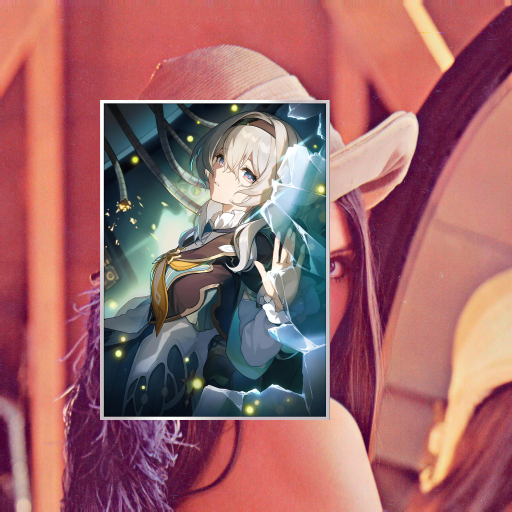
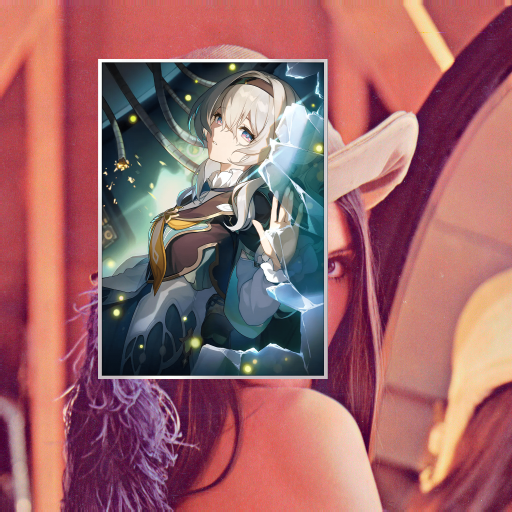
2025/01/10

Changed region(s): [[0.1875, 0.0938, 0.6562, 0.8438]]

diff --git a/Toollib.py b/Toollib.py
@@ -3,6 +3,7 @@ import matplotlib.pyplot as plt
 from xxhash import xxh32
 import B2D
 from skimage import io,transform
+import random
 
 def APPM_RT256():
     RT = []
@@ -266,12 +267,14 @@ def embeding(image,n):
     def noise(I,Noise):
         n_r,n_c = Noise.shape[0],Noise.shape[1]
 
+        r_base = random.randint(0,I.shape[0]-n_r)
+        c_base = random.randint(0,I.shape[1]-n_c)
         for i in range(n_r):
             for j in range(n_c):
                 if(Noise[i, j,3]==0):
                     continue
                 for k in range(3):
-                    I[i+100,j+100,k] = Noise[i,j,k]
+                    I[i+r_base,j+c_base,k] = Noise[i,j,k]
 
         return I
     path = "processing_image/"+image+".png"
